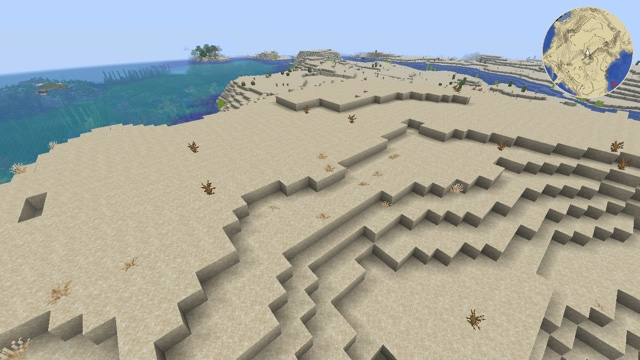
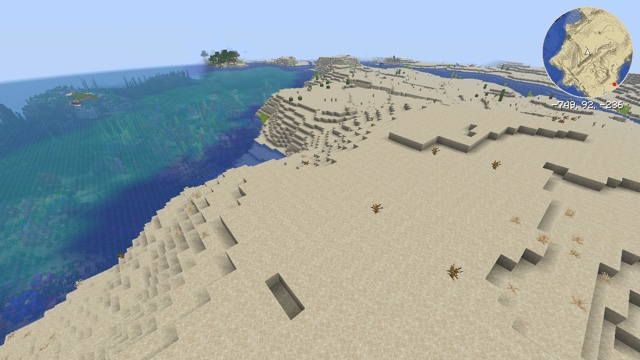
Coordinates example: the player's block, x, y, z, printed by a post effect in the game's font; both minimaps print it under the map; test agent: sneak key and position log

diff --git a/tools/agent/ShaderTestAgent.java b/tools/agent/ShaderTestAgent.java
@@ -26,8 +26,9 @@ import java.util.concurrent.CompletableFuture;
  *   hud off|on            hide or show the HUD (like F1)
  *   inventory             open the player's inventory screen (closed by the next world action or quit)
  *   packs                 open the resource pack screen (to see the packs' icons)
- *   key forward on|off    hold or release the walk-forward key (also jump, sprint, left, right, back)
+ *   key forward on|off    hold or release the walk-forward key (also jump, sprint, sneak, left, right, back)
  *   camera first|third    first-person view, or third person from behind (like F5)
+ *   position              log the player's position, its block and the camera's position
  *   screenshot <name>     save screenshots/<name>.png from the game's own framebuffer
  *   quit
  */
@@ -75,12 +76,15 @@ public class ShaderTestAgent {
                             case "right" -> mc.options.keyRight;
                             case "jump" -> mc.options.keyJump;
                             case "sprint" -> mc.options.keySprint;
+                            case "sneak" -> mc.options.keyShift;
                             default -> throw new IllegalArgumentException("unknown key: " + k[0]);
                         };
                         onGameThread(mc, () -> mapping.setDown(k[1].equals("on")));
                     }
                     case "camera" -> onGameThread(mc, () -> mc.options.setCameraType(arg.equals("third")
                         ? net.minecraft.client.CameraType.THIRD_PERSON_BACK : net.minecraft.client.CameraType.FIRST_PERSON));
+                    case "position" -> onGameThread(mc, () -> log("player " + mc.player.position() + " block " + mc.player.blockPosition()
+                        + " camera " + mc.gameRenderer.mainCamera().position()));
                     case "quit" -> onGameThread(mc, mc::stop);
                     default -> log("unknown action: " + parts[0]);
                 }

diff --git a/examples/coordinates/text.py b/examples/coordinates/text.py
@@ -1,0 +1,22 @@
+"""Add what the coordinates text needs to a pack: the game's font as a post-effect texture, and text.glsl.
+
+The font PNG comes from the installed game's jar, so the repository has no copy of it. Used by the
+coordinates example and by both minimaps, which print the coordinates under the map.
+
+Called by tools/experiments.py when it builds the example: generate(jar, pack).
+"""
+import os
+import shutil
+
+HERE = os.path.dirname(os.path.abspath(__file__))
+
+
+def generate(jar, pack):
+    # A texture input "coordinates:ascii" reads assets/coordinates/textures/effect/ascii.png.
+    font = os.path.join(pack, "assets", "coordinates", "textures", "effect", "ascii.png")
+    os.makedirs(os.path.dirname(font), exist_ok=True)
+    with open(font, "wb") as f:
+        f.write(jar.read("assets/minecraft/textures/font/ascii.png"))
+    include = os.path.join(pack, "assets", "coordinates", "shaders", "include", "text.glsl")
+    os.makedirs(os.path.dirname(include), exist_ok=True)
+    shutil.copy(os.path.join(HERE, "text.glsl"), include)

diff --git a/docs/techniques.md b/docs/techniques.md
@@ -7,7 +7,7 @@ Recurring tricks of vanilla shader packs, checked in 26.3. Each one links to the
 - **Know what you are drawing:** [Mark texels in a texture](#mark-texels-in-a-texture), [Pass data from a datapack](#pass-data-from-a-datapack), [Tell the GUI from the world](#tell-the-gui-from-the-world), [Isolate an element of the GUI](#isolate-an-element-of-the-gui), [Detect the Nether](#detect-the-nether)
 - **Read the state of the world:** [Camera, world position and field of view](#camera-world-position-and-field-of-view), [Read light levels](#read-light-levels), [Animate](#animate)
 - **Change the rendering:** [Change the color of translucent things (Improved Transparency)](#change-the-color-of-translucent-things-improved-transparency), [Change something everywhere: replace a vanilla include](#change-something-everywhere-replace-a-vanilla-include), [Displace geometry](#displace-geometry), [Wave plants](#wave-plants), [Restyle glowing outlines](#restyle-glowing-outlines)
-- **Post effects:** [Tag pixels for a post effect](#tag-pixels-for-a-post-effect), [Send a value or a position to a post effect](#send-a-value-or-a-position-to-a-post-effect), [Give post effects the camera: a data bus](#give-post-effects-the-camera-a-data-bus), [Read depth in a post effect](#read-depth-in-a-post-effect), [Reconstruct positions in a post effect](#reconstruct-positions-in-a-post-effect), [Mark translucent surfaces for a post effect: water](#mark-translucent-surfaces-for-a-post-effect-water), [Relight terrain in a post effect](#relight-terrain-in-a-post-effect), [Shadows in screen space](#shadows-in-screen-space), [Reuse the previous frame](#reuse-the-previous-frame), [Tell the hand from the world in a post effect](#tell-the-hand-from-the-world-in-a-post-effect), [A top-down map: draw terrain a second time](#a-top-down-map-draw-terrain-a-second-time)
+- **Post effects:** [Tag pixels for a post effect](#tag-pixels-for-a-post-effect), [Send a value or a position to a post effect](#send-a-value-or-a-position-to-a-post-effect), [Give post effects the camera: a data bus](#give-post-effects-the-camera-a-data-bus), [Read depth in a post effect](#read-depth-in-a-post-effect), [Reconstruct positions in a post effect](#reconstruct-positions-in-a-post-effect), [Mark translucent surfaces for a post effect: water](#mark-translucent-surfaces-for-a-post-effect-water), [Relight terrain in a post effect](#relight-terrain-in-a-post-effect), [Shadows in screen space](#shadows-in-screen-space), [Reuse the previous frame](#reuse-the-previous-frame), [Tell the hand from the world in a post effect](#tell-the-hand-from-the-world-in-a-post-effect), [Print text in a post effect](#print-text-in-a-post-effect), [A top-down map: draw terrain a second time](#a-top-down-map-draw-terrain-a-second-time)
 
 ## Mark texels in a texture
 
@@ -79,6 +79,7 @@ bool netherLighting = Light1_Direction.y < 0.0 && ProjMat[2][3] != 0.0;
 | Camera position (world) | `vec3(CameraBlockPos) - CameraOffset` (`Globals`) | *(code)* |
 | World position, entities | `Position + vec3(CameraBlockPos) - CameraOffset`: their `Position` is relative to the camera | [exp 74](../experiments/74-entity-world-position/) |
 | World position, terrain | `Position + vec3(ChunkPosition)` | [terrain-wave](../examples/terrain-wave/) |
+| Player's feet | the camera's position minus 1.62 in `y`: right when standing, flying or in spectator mode, in first person | [coordinates](../examples/coordinates/) |
 | Vertical field of view | `degrees(2.0 * atan(1.0 / ProjMat[1][1]))`: 70 with the default FOV option, more when flying or sprinting (dynamic FOV is in `ProjMat`) | [exp 73](../experiments/73-fov-from-projection/), [data-bus](../examples/data-bus/) |
 
 In `entity.vsh`, the `PER_FACE_LIGHTING` variants (`entity_cutout` and others: mobs, for example) output `vertexPerFaceColorFront` and `vertexPerFaceColorBack` instead of `vertexColor`. An effect on the vertex color has to change both outputs, or it won't show on most mobs.
@@ -275,3 +276,14 @@ The first-person hand and held items are merged into the depth a post effect rea
 - **Tagging it in alpha doesn't work:** the player's skin is drawn with a translucent pipeline, whose blending adds part of the alpha behind, so a written 253 came out as 255 (observed).
 - **Squeeze its depth instead,** in `entity.vsh` and `item.vsh`: a vertex within 1.5 blocks of the eye, with a perspective projection (GUI items are orthographic), is the hand. Move its depth into the thousandth next to the near plane, keeping its order: `ndc = 1.0 - (1.0 - ndc) * 0.001` (depth is reversed, 1 is near). Nothing of the world is ever that close, so in the post effect a depth above 0.9985 is the hand, on both backends (observed).
 - **The view bobbing is in `ProjMat`** *(code: `projectionMatrix.mul(bobStack)`)*: a translation of a few hundredths of a block. To turn a sky pixel into a direction, unproject a point at the far plane (depth near 0), not a near one, or the direction swings with each step.
+
+## Print text in a post effect
+
+A post effect can write numbers on the screen, such as the coordinates, which every pass has in `Globals` ([above](#camera-world-position-and-field-of-view)):
+
+- **Use the game's font:** a build step copies `font/ascii.png` from the installed game into the pack's `textures/effect/`, and the pass reads it as a texture input. It is 16 × 16 cells of 8 × 8 pixels, in ASCII order, and its `texelFetch` row 0 is the PNG's top row.
+- **A line is an array of character codes**, since GLSL has no strings. Each pixel walks along it, with the game's advances (the glyph's width plus one, 4 for a space), to find its glyph.
+- **Size it from `ScreenSize`.** The pass can't read the GUI scale option, but it can compute the one "Auto" picks: `max(1, min(width / 320, height / 240))` *(code: `Window.calculateScale`)*.
+- **It is drawn before the GUI**, so F1 doesn't hide it, and menus cover it.
+
+[coordinates](../examples/coordinates/) prints the block the player stands in, and both minimaps print it under the map.

diff --git a/examples/coordinates/README.md b/examples/coordinates/README.md
@@ -1,0 +1,50 @@
+# Coordinates
+
+![A desert coast, with the player's coordinates in the top-left corner](screenshot.jpg)
+
+The block the player stands in, printed as `x, y, z` in the top-left corner, in the game's own font, with no mod and no command. A post effect reads the camera's position from `Globals` and draws the text itself. The [minimap](../minimap/) and [minimap-sodium](../minimap-sodium/) examples print the same line under their map.
+
+## How
+
+**1. The position comes from `Globals`**, which every post pass has ([Post effects](../../docs/post-effects.md#the-shaders)). `CameraBlockPos` is the block the camera is in, `floor` of its position, and `CameraOffset` is `CameraBlockPos` minus the position, so `-CameraOffset` is the camera's fraction, from 0 to 1 *(code: `GlobalSettingsUniform`)*. `CameraBlockPos` is an `ivec3`: the whole part is exact at any distance from the origin, and only the fraction goes through a float.
+
+**2. The camera is at the eyes, not the feet.** In first person it is 1.62 blocks above the feet when standing, flying or in spectator mode *(code: `Camera`)*. [text.glsl](text.glsl) subtracts that height from the camera's fraction and takes the block of the result:
+
+```glsl
+float y = -CameraOffset.y - EYE_HEIGHT;   // EYE_HEIGHT = 1.62
+ivec3 feet = CameraBlockPos + ivec3(0, int(floor(y + 0.00001)), 0);
+```
+
+The small margin matters. Standing on a block, the camera read 5.619999885559082 for feet at 4.0, a little under 1.62 above them, so the fraction lands just below a whole number.
+
+**3. The font is the game's** `font/ascii.png`. [text.py](text.py) copies it from the installed game into the pack when the example is built, as `assets/coordinates/textures/effect/ascii.png`. The post pass reads it as a texture input (`"location": "coordinates:ascii"`). The PNG is a grid of 16 × 16 cells of 8 × 8 pixels in ASCII order. A texture input reads upside down with the usual `texCoord` ([Post effects](../../docs/post-effects.md#passes)), so `texelFetch` row 0 is the PNG's top row, and the glyph of character `c` starts at `((c & 15) * 8, (c >> 4) * 8)`.
+
+**4. A line of text is an array of character codes.** GLSL has no strings. `coordinatesLine()` writes the digits, the minus signs and the `, ` separators into an `int` array. A pixel walks along it to find its character, using the game's advances: the glyph's width plus one, which is 6 for the digits and the minus sign and 2 for the comma, measured in the PNG. The space has no glyph and advances by 4 (`font/include/space.json`). The text is white, with the game's shadow: one font pixel right and down, at a quarter of the color.
+
+**5. Its size follows the GUI scale that "Auto" picks:** the largest that leaves at least 320 × 240 GUI pixels *(code: `Window.calculateScale`)*. A post effect can't read the GUI scale option, so with another scale set in the options the text keeps the "Auto" size.
+
+## Checked in game
+
+On OpenGL and Vulkan, with the test agent logging the game's own position next to each screenshot:
+
+| Player | Printed |
+|---|---|
+| Spectator, feet at -1234.567, 70.25, 5678.875 | `-1235, 70, 5678` |
+| Standing on the ground, feet at 10.5, 4.0, 10.5 | `10, 4, 10` |
+| Sneaking there | `10, 3, 10`: one block too low (see below) |
+| Third person there, camera at 10.5, 7.62, 7.04 | `10, 6, 7`: the camera's position (see below) |
+
+With Sodium 0.9.2, the example works unchanged, since it changes no terrain shader.
+
+## Limits
+
+- **Sneaking, swimming, crawling and gliding lower the eyes.** The eye height is then 1.27 for sneaking and 0.4 for the others, and the `scale` attribute multiplies them all *(code: `Avatar`)*, so `y` reads one block too low when sneaking on a block and a block or two too low in the other poses. A post effect can't tell the poses apart. The camera also moves smoothly between the two heights, over a few ticks.
+- **In third person, the coordinates are the camera's:** 4 blocks behind the player by default (the `camera_distance` attribute), closer when a wall is in the way *(code: `Camera`)*. Nothing tells a post effect which view is on.
+- **The post effect runs before the GUI**, so F1 doesn't hide the coordinates, and screenshots include them. Menus, the chat and the debug screen are drawn over them.
+- **The coordinates are interpolated** between ticks, as the camera is. The debug screen prints the position of the last tick instead *(code: `DebugEntryPosition`)*, so while moving the two can differ by a block at the moment one is crossed.
+
+## Try it
+
+```sh
+python3 tools/examples.py coordinates --out ~/Desktop
+```

diff --git a/examples/minimap/README.md b/examples/minimap/README.md
@@ -1,8 +1,8 @@
 # Minimap
 
-![A desert coast, with a round map of it in the top-right corner](screenshot.jpg)
+![A desert coast, with a round map of it in the top-right corner and the coordinates under it](screenshot.jpg)
 
-A round minimap in the corner of the screen, with no item and no mod: it shows the terrain from above, 64 blocks around the camera, turns with the view, remembers what was seen, and tints the seabed by the depth of the water above it. In the screenshot the camera looks south-west: north (the red dot) is behind it, and the ocean on its left is on the map's left.
+A round minimap in the corner of the screen, with no item and no mod: it shows the terrain from above, 64 blocks around the camera, turns with the view, remembers what was seen, and tints the seabed by the depth of the water above it. Under the map, as many minimaps do, a line gives the block the player stands in: `x, y, z`. In the screenshot the camera looks south-west: north (the red dot) is behind it, and the ocean on its left is on the map's left.
 
 ## How
 
@@ -15,6 +15,8 @@ A round minimap in the corner of the screen, with no item and no mod: it shows t
 **4. A post effect keeps a memory of the map** (`end_of_frame`). A 256 × 257 `persistent` target holds one texel per block, at world x and z modulo 256. Each frame, the blocks that the capture shows with the 0.5 tag replace what the memory had. Other blocks keep their texel. Alpha records which 256-block region a texel belongs to, so that a texel wrapping onto another place is forgotten instead of shown. The last row keeps the last heading.
 
 **5. The same post effect draws the map** over the capture square, which it hides: a disc of 64 blocks, 2 screen pixels per block, centered on the camera's exact position and turned so that the view points up. Blocks never seen are dark. An arrow marks the camera, a red dot north.
+
+**6. Under the map, the same pass prints the coordinates**, with the code of the [coordinates](../coordinates/) example: the game's font, copied into the pack when it is built, and the block of the player's feet from `Globals`. It is centered under the rim, at 2 screen pixels per font pixel, as the map has per block, and is drawn only with the map.
 
 What it took, observed in game on OpenGL and Vulkan:
 
@@ -33,6 +35,7 @@ What it took, observed in game on OpenGL and Vulkan:
 - **Only the Overworld makes sense.** In the Nether the map shows the bedrock roof, the topmost blocks. The End has no sky light, so its whole map should read as deep water (not checked).
 - **Logs lying down, and other models turned on their side by a blockstate, are missing**: their map face is dropped, and the block below has none either, since it is covered. The map keeps what it had there, or stays dark (observed with `oak_log[axis=x]`).
 - **Items show the extra face.** Block items use the block models, and the `item` program can't tell the map face apart, since its positions are already transformed. Inside opaque blocks it is hidden. Through glass or leaves it should show as a second layer under the top (not checked).
+- **The coordinates have the limits of the [coordinates](../coordinates/#limits) example:** one block too low when sneaking, the camera's position in third person.
 - **The memory is lost** when the pack reloads (not checked), and is kept from one world to the next unless the regions differ.
 
 ## With Sodium

diff --git a/examples/minimap-sodium/README.md b/examples/minimap-sodium/README.md
@@ -1,6 +1,6 @@
 # Minimap for Sodium too
 
-![A desert coast, with a round map of it in the top-right corner](screenshot.jpg)
+![A desert coast, with a round map of it in the top-right corner and the coordinates under it](screenshot.jpg)
 
 The [minimap](../minimap/) example, changed so that it also works with [Sodium](../../docs/sodium.md). Its map faces, memory and drawing are the same; read that example first. This page covers what had to change, and what it costs.
 
@@ -10,6 +10,7 @@ Sodium draws terrain with its own shader, `block_layer_opaque`, which has neithe
 
 - **The camera's block comes from Sodium's region offset.** Sodium places a vertex at `_vert_position + u_RegionOffset + (section offset)` from the camera, and its regions start on whole blocks. So `fract(-u_RegionOffset)` is the fraction of the camera's position, and adding it to the vertex's position gives coordinates from the camera's block: the corners of map faces land on whole numbers again, as with `Position + ChunkPosition - CameraBlockPos` in `core/terrain`.
 - **The capture square is placed by screen fractions** (`layout.glsl`), from the aspect ratio alone, which both terrain shaders get from their projection matrix (`[0][0] / [1][1]`). Blocks no longer fall on whole pixels. The post effect, which has `ScreenSize`, reads each block at the pixel under its center.
+- **The coordinates under the map follow its size:** 2 screen pixels per font pixel for a radius of 128 pixels, rounded up. Rounded to the nearest, a 720-pixel-tall framebuffer got 1, and the line was barely readable. They come from the post effect alone, so Sodium changes nothing for them.
 - **Both terrain shaders get the same edits.** `core/terrain` for the game, `block_layer_opaque.vsh` and `.fsh` for Sodium. Without Sodium, the `assets/sodium/` files are not used.
 - **Its outputs in Sodium's shader start at location 10.** Sodium Extra inserts two of its own at 4 and 5. With the map's at 4 to 6, Sodium's terrain pipeline failed to compile and the game crashed when the world opened ([Sodium](../../docs/sodium.md#making-a-pack-work-with-sodium)).
 

diff --git a/examples/README.md b/examples/README.md
@@ -21,7 +21,8 @@ Complete packs, each checked with `tools/mcshaders check` and filmed in game (26
 | [sun-lighting](sun-lighting/) | Core + post: opaque terrain writes its light levels in alpha, and a post effect relights it by the sun, the moon and the sky, with bloom |
 | [water-reflections](water-reflections/) | Core + post: the terrain shaders mark water through translucent blending, and a post effect draws waves, screen-space reflections, refraction and Fresnel |
 | [data-bus](data-bus/) | Core + post: a reserved screen column carries the projection, the view rotation, the sky and fog colors and the sun direction to a post effect |
-| [minimap](minimap/) | Core + post: block models get a hidden top face that `terrain.vsh` draws into a top-down capture, and a post effect keeps it in a persistent memory and shows a round map |
+| [coordinates](coordinates/) | Post: the block the player stands in, `x, y, z`, from `Globals`, printed in the game's own font |
+| [minimap](minimap/) | Core + post: block models get a hidden top face that `terrain.vsh` draws into a top-down capture, and a post effect keeps it in a persistent memory and shows a round map, with the coordinates under it |
 | [minimap-sodium](minimap-sodium/) | The minimap, also under Sodium: a capture placed by screen fractions, and the camera's block from Sodium's region offset |
 
 With the Sodium mod, the examples that change terrain shaders behave differently: see [Sodium](../docs/sodium.md#the-examples-under-sodium).

diff --git a/docs/sodium.md b/docs/sodium.md
@@ -82,4 +82,4 @@ With `--sodium`, `mcshaders check` builds Sodium's terrain pipelines with Sodium
 | [minimap](../examples/minimap/) | No map: Sodium's terrain shader has neither the screen size nor the camera's block, which the capture needs. Its edit only hides the map faces. [minimap-sodium](../examples/minimap-sodium/) does without both, at a cost |
 | [minimap-sodium](../examples/minimap-sodium/) | Same, but with Sodium's "Use Block Face Culling" on (the default), terrain above the camera's chunk section is missing from the map |
 | [atmosphere](../examples/atmosphere/) | The sky is the same; the terrain keeps the vanilla fog |
-| [depth-outlines](../examples/depth-outlines/), [emissive-entities](../examples/emissive-entities/), [emissive-glow](../examples/emissive-glow/), [gui-theme](../examples/gui-theme/), [procedural-sprite](../examples/procedural-sprite/), [text-effects](../examples/text-effects/), [thick-outlines](../examples/thick-outlines/), [world-anchor](../examples/world-anchor/) | Same |
+| [coordinates](../examples/coordinates/), [depth-outlines](../examples/depth-outlines/), [emissive-entities](../examples/emissive-entities/), [emissive-glow](../examples/emissive-glow/), [gui-theme](../examples/gui-theme/), [procedural-sprite](../examples/procedural-sprite/), [text-effects](../examples/text-effects/), [thick-outlines](../examples/thick-outlines/), [world-anchor](../examples/world-anchor/) | Same |

diff --git a/README.md b/README.md
@@ -18,7 +18,7 @@ Every statement here is either checked against the game's code, reproduced by an
   - [Core shader programs](docs/reference/core-shaders.md): for each program, its pipelines, defines, available uniforms (with the `#ifdef` that guards each one) and vertex inputs.
   - [Uniforms](docs/reference/uniforms.md): every uniform block (with its std140 layout) and sampler.
   - [Render pipelines](docs/reference/pipelines.md): all 192 of them.
-- [Examples](examples/): complete packs with screenshots (terrain wave, depth outlines, emissive entities, emissive glow, atmosphere, thick outlines, text effects, GUI theme, world anchor, procedural sprite, data bus, scattered sky, water reflections, sun lighting, screen-space shadows, waving plants, temporal accumulation).
+- [Examples](examples/): complete packs with screenshots (terrain wave, depth outlines, emissive entities, emissive glow, atmosphere, thick outlines, text effects, GUI theme, world anchor, procedural sprite, data bus, scattered sky, water reflections, sun lighting, screen-space shadows, waving plants, temporal accumulation, coordinates, minimap).
 - [Experiments](experiments/) and their [results](experiments/RESULTS.md), in game on OpenGL and Vulkan.
 - [Tools](tools/): `mcshaders check` validates a pack the way the game does, without launching it.
 

diff --git a/tools/README.md b/tools/README.md
@@ -81,7 +81,7 @@ For each core fragment program, this builds a pack that makes the vanilla progra
 
 ## `agent/ShaderTestAgent.java`
 
-A Java agent that `launch.py --script` loads into the game. Besides `world`, `command` and `screenshot`, it can hold keys (`key forward on`, to walk with the view bobbing) and switch to third person (`camera third`). It creates a fresh test world (flat, or a normal world with a given seed), runs commands, hides the HUD, takes screenshots with the game's own screenshot function, and quits. No mod is installed and no OS screen-capture permission is needed. The script format is in the file's header.
+A Java agent that `launch.py --script` loads into the game. Besides `world`, `command` and `screenshot`, it can hold keys (`key forward on`, to walk with the view bobbing; `key sneak on`), switch to third person (`camera third`), and log the player's and the camera's positions (`position`). It creates a fresh test world (flat, or a normal world with a given seed), runs commands, hides the HUD, takes screenshots with the game's own screenshot function, and quits. No mod is installed and no OS screen-capture permission is needed. The script format is in the file's header.
 
 ## `examples.py`
 
